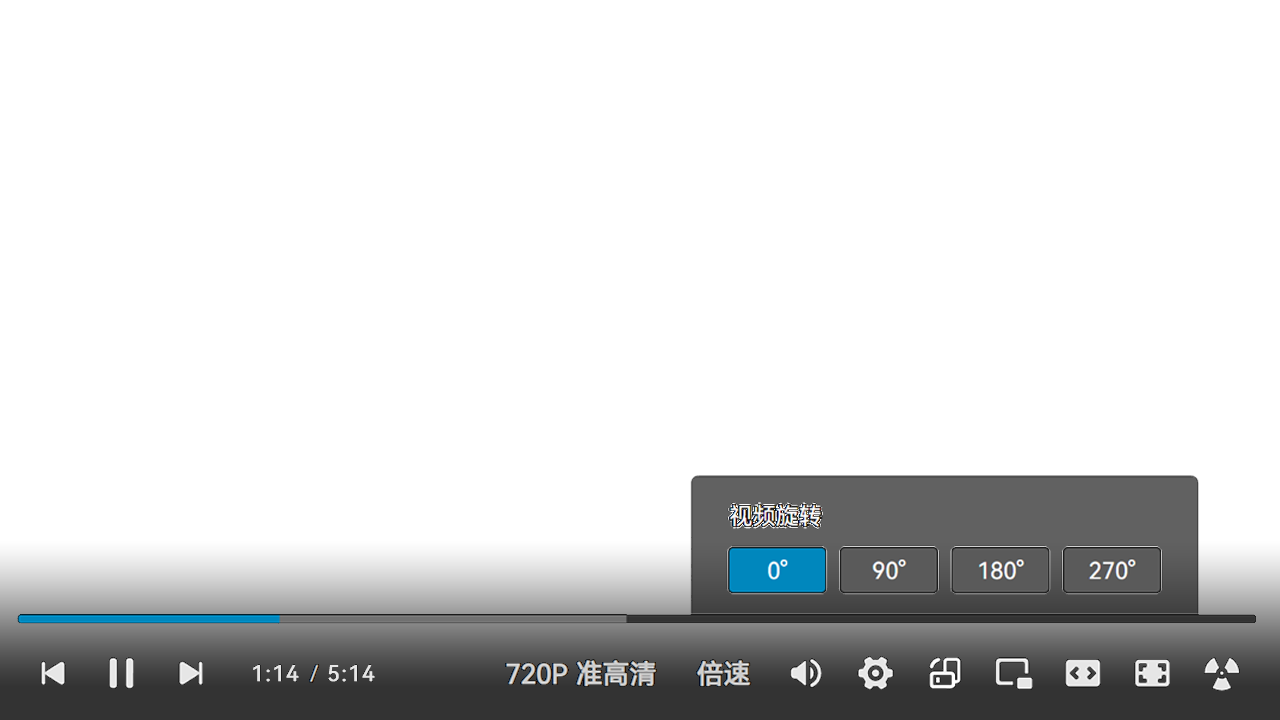
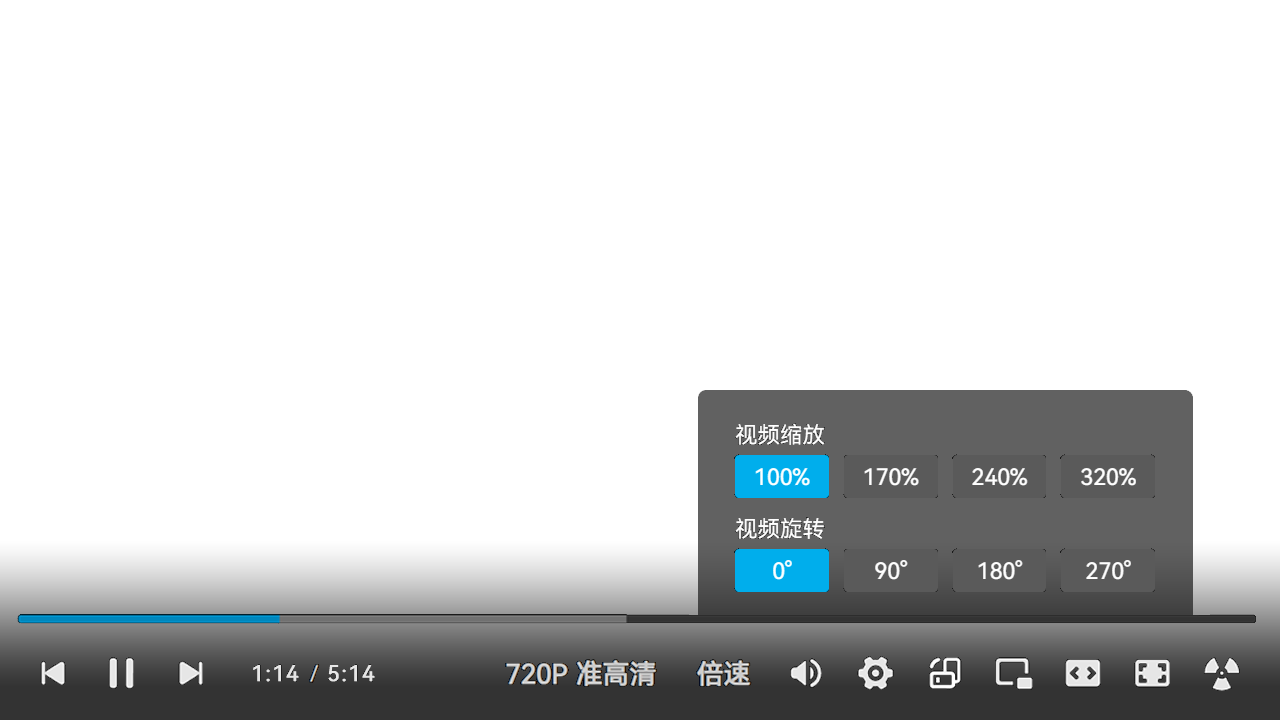
docs：添加缩放功能的宣传

Changed region(s): [[0.5312, 0.5194, 0.9375, 0.8556]]

diff --git a/docs/index.html b/docs/index.html
@@ -76,7 +76,7 @@
                         B站治好了我的颈椎病
                     </h1>
                     <p class="text-bilibili-gray text-lg max-w-md mx-auto lg:mx-0">
-                        给B站PC网页版添加视频旋转功能，喜欢的话点点小星星哟😘
+                        给B站PC网页版添加视频旋转和缩放功能，喜欢的话点点小星星哟😘
                         <a href="https://github.com/heyManNice/bili-cured-my-neck-pain"
                             class="text-bilibili-gray hover:text-white transition-colors ml-1">
                             <i class="fa fa-github"></i>
